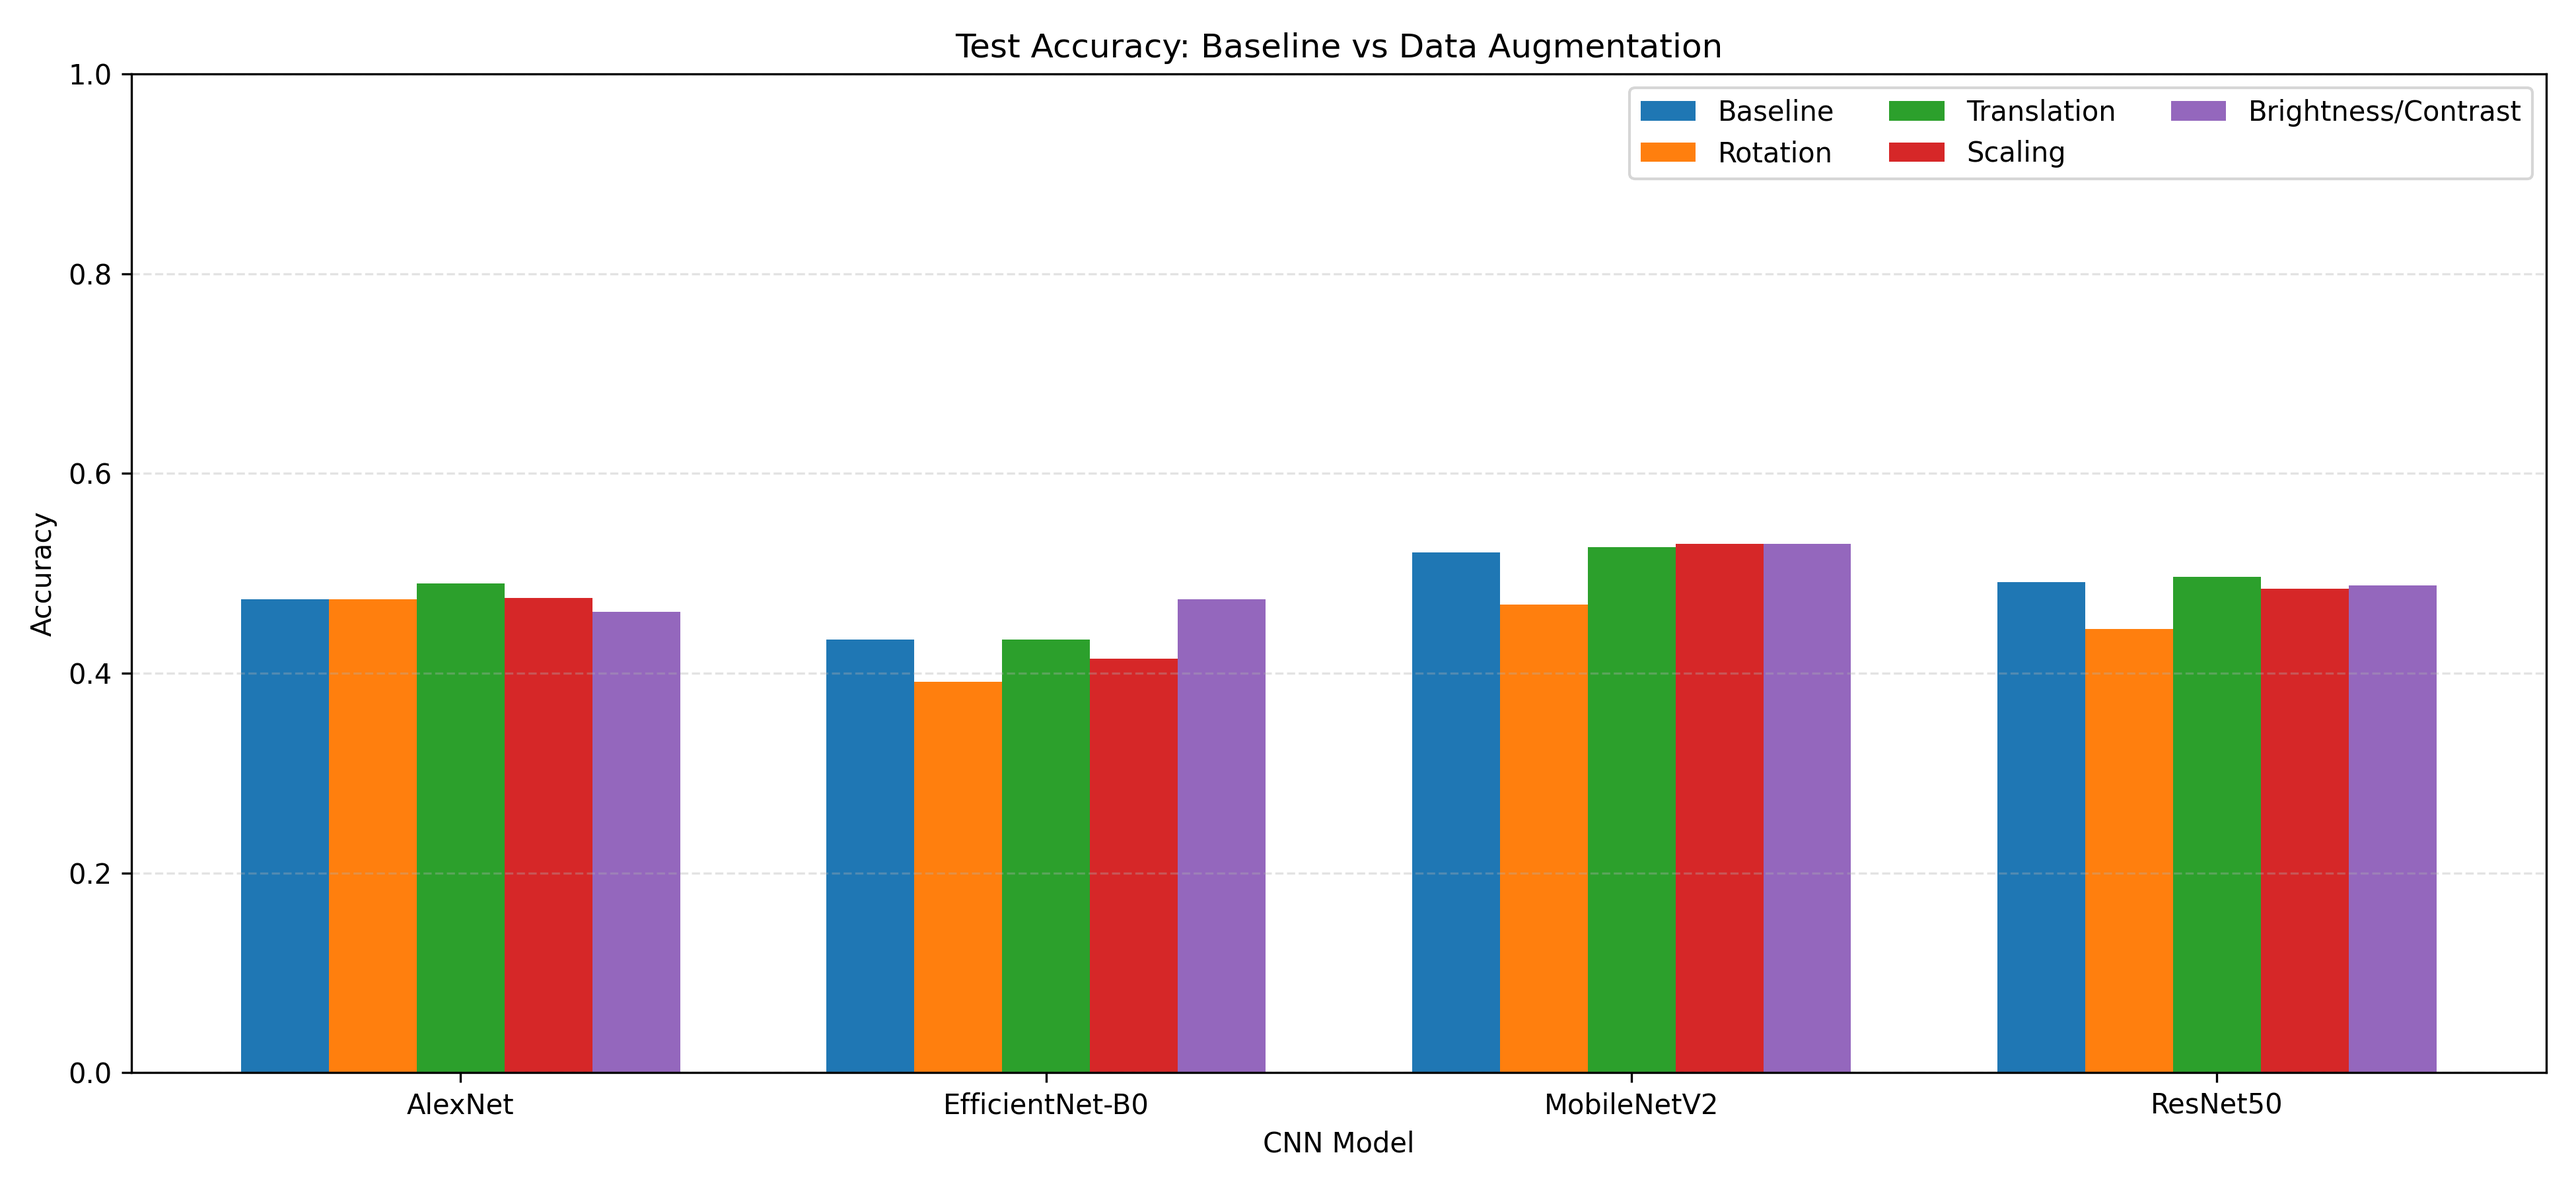
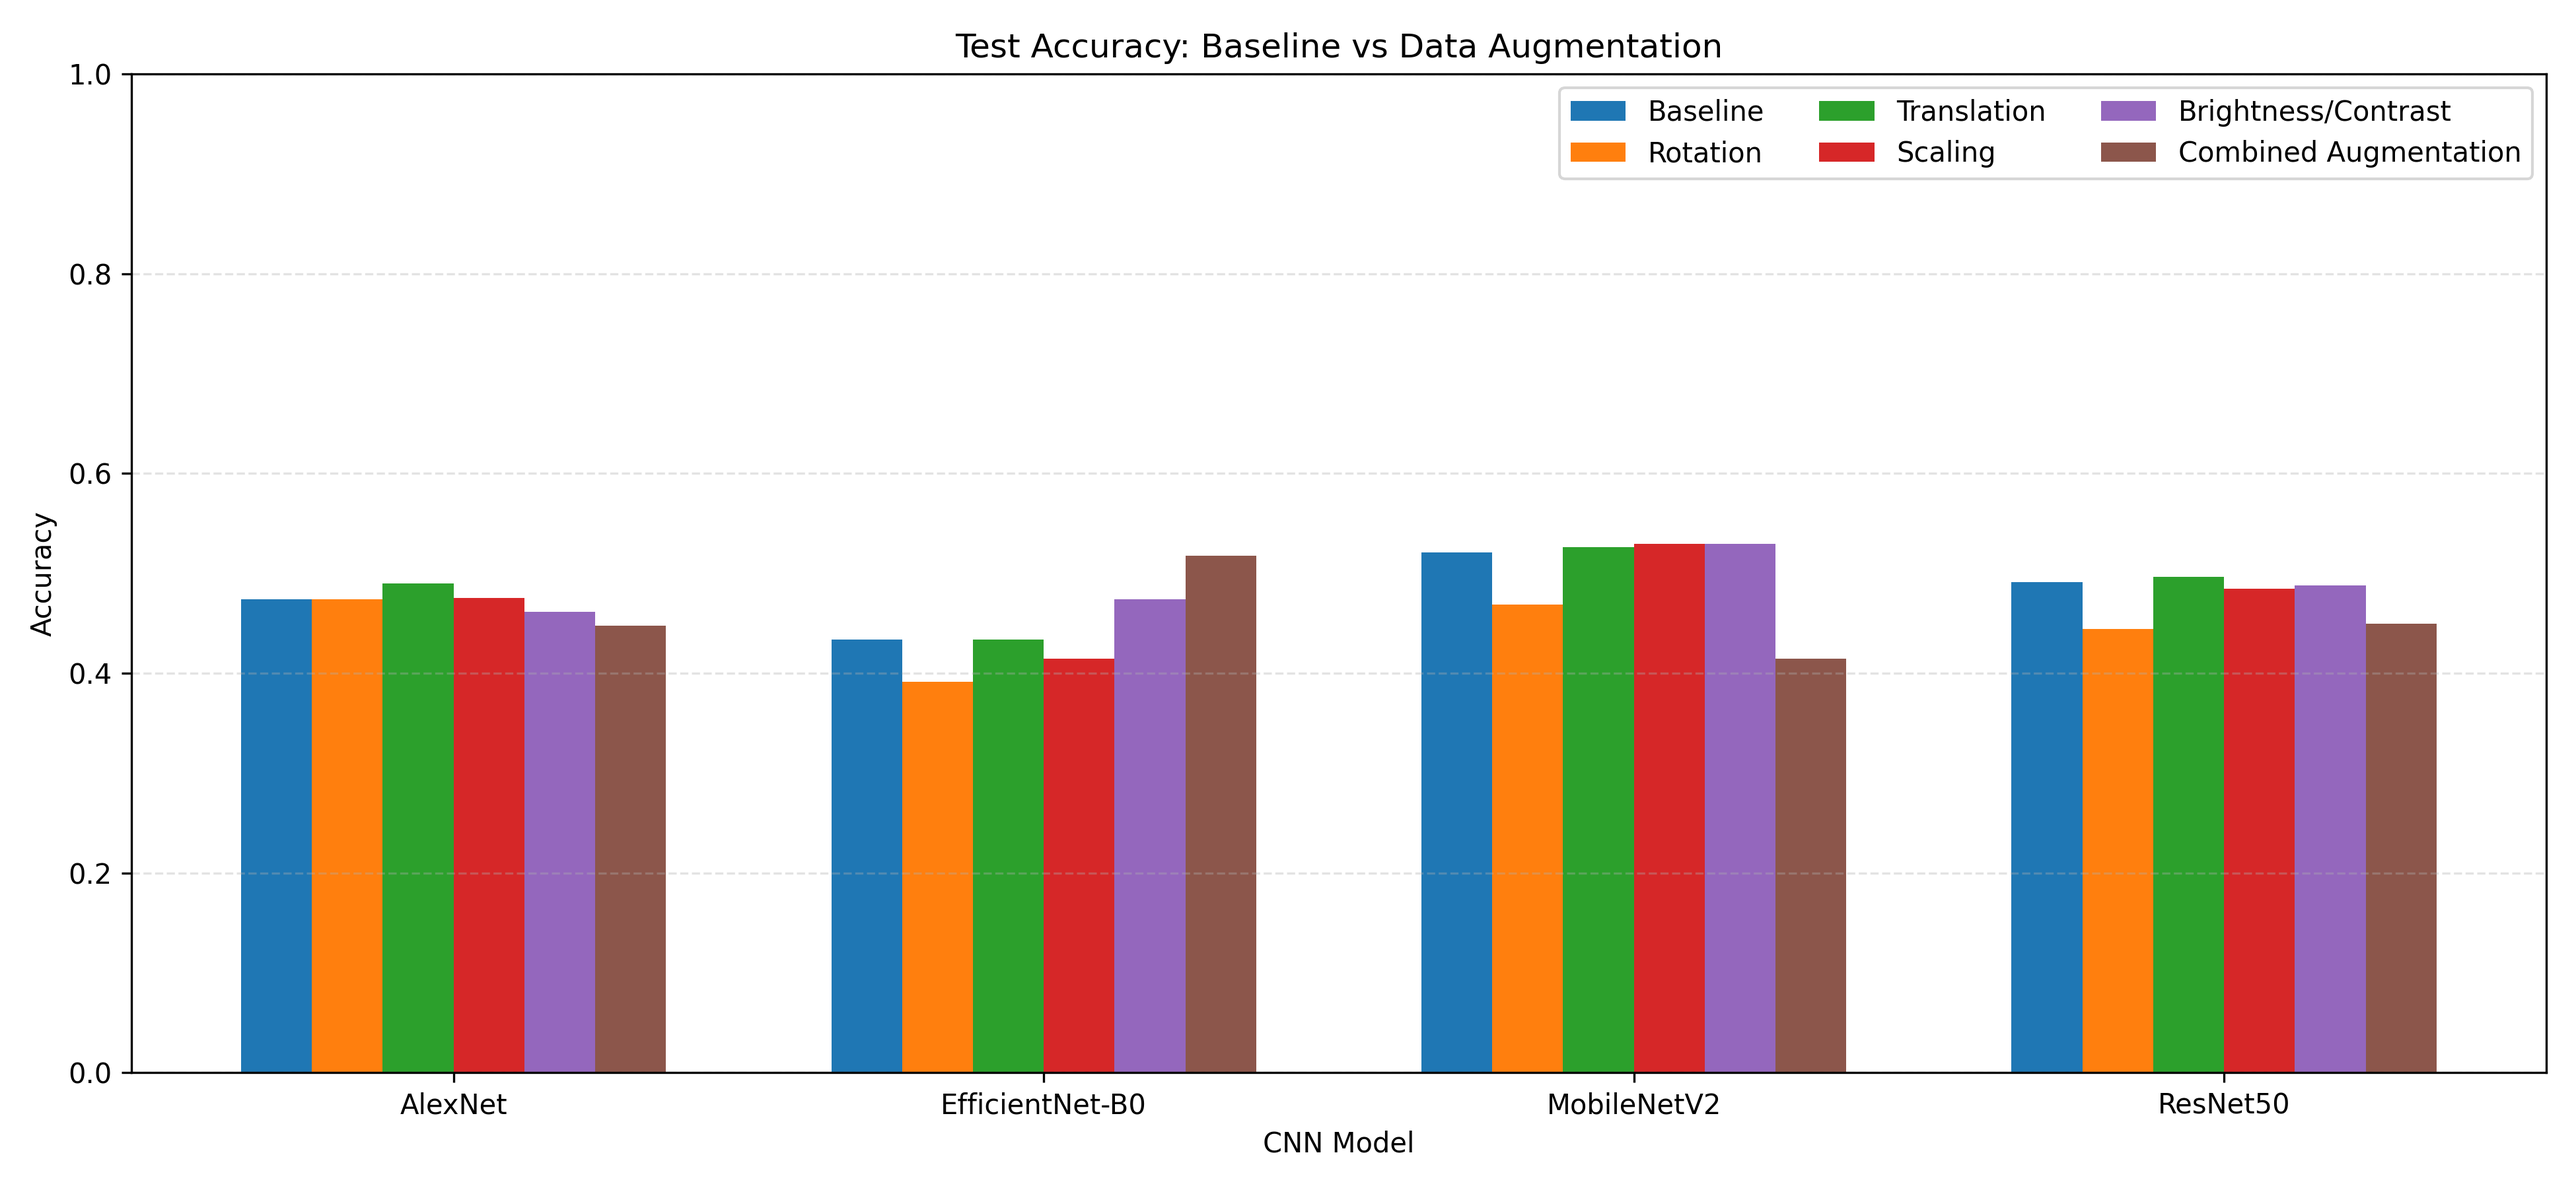
added the combined augmentation metric in the comparision results

diff --git a/03_Transfer_learning/augmentation models/compare_augmentations.py b/03_Transfer_learning/augmentation models/compare_augmentations.py
@@ -52,6 +52,16 @@ EXPERIMENTS = {
     },
 }
 
+# Combined augmentation results are stored separately from the individual
+# augmentation experiments, with one model folder per CNN.
+COMBINED_ROOT = SCRIPT_DIR / "combined_augmentation"
+COMBINED_MODEL_FOLDERS = {
+    "AlexNet": "alexnet",
+    "EfficientNet-B0": "efficientnet_b0",
+    "MobileNetV2": "mobilenetv2",
+    "ResNet50": "resnet50",
+}
+
 METRIC_COLUMNS = [
     "accuracy", "precision_macro", "recall_macro", "f1_macro",
     "precision_weighted", "recall_weighted", "f1_weighted",
@@ -74,11 +84,15 @@ def find_csv(folder: Path, preferred_name: str):
         return path
     raise FileNotFoundError(f"Missing {preferred_name} in {folder}")
 
-def read_metrics(folder: Path, is_baseline: bool):
-    filename = (
-        "transfer_learning_metrics_summary.csv"
-        if is_baseline else "metrics_summary.csv"
-    )
+def read_metrics(folder: Path, is_baseline: bool, combined_model: str = None):
+    if combined_model:
+        model_prefix = COMBINED_MODEL_FOLDERS[combined_model]
+        filename = f"{model_prefix}_combined_metrics_summary.csv"
+    else:
+        filename = (
+            "transfer_learning_metrics_summary.csv"
+            if is_baseline else "metrics_summary.csv"
+        )
     path = find_csv(folder, filename)
     df = pd.read_csv(path)
     required = set(METRIC_COLUMNS)
@@ -103,9 +117,10 @@ def read_history(folder: Path):
 
 def save_metric_bar_chart(comparison, metric, title, filename):
     models = list(EXPERIMENTS.keys())
-    experiments = ["Baseline", "Rotation", "Translation", "Scaling", "Brightness/Contrast"]
+    experiments = ["Baseline", "Rotation", "Translation", "Scaling",
+                   "Brightness/Contrast", "Combined Augmentation"]
     x = np.arange(len(models))
-    width = 0.15
+    width = 0.12
 
     fig, ax = plt.subplots(figsize=(13, 6))
     for i, experiment in enumerate(experiments):
@@ -117,7 +132,8 @@ def save_metric_bar_chart(comparison, metric, title, filename):
             ]
             values.append(float(row.iloc[0][metric]) if not row.empty else np.nan)
 
-        ax.bar(x + (i - 2) * width, values, width, label=experiment)
+        ax.bar(x + (i - (len(experiments) - 1) / 2) * width,
+               values, width, label=experiment)
 
     ax.set_title(title)
     ax.set_xlabel("CNN Model")
@@ -182,6 +198,20 @@ def main():
 
             histories[(model, experiment)] = read_history(folder)
 
+        # Add the combined augmentation result for this CNN.
+        combined_folder = COMBINED_ROOT / COMBINED_MODEL_FOLDERS[model] / "output"
+        combined_metrics = read_metrics(combined_folder, False, combined_model=model)
+        combined_row = {
+            "Model": model,
+            "Experiment": "Combined Augmentation",
+            "Test Images": combined_metrics.get("test_images", np.nan),
+            "Test Loss": combined_metrics.get("test_loss", np.nan),
+        }
+        for column in METRIC_COLUMNS:
+            combined_row[column] = combined_metrics[column]
+        rows.append(combined_row)
+        histories[(model, "Combined Augmentation")] = read_history(combined_folder)
+
     comparison = pd.DataFrame(rows)
     comparison.to_csv(RESULTS_DIR / "overall_classification_comparison.csv", index=False)
 
@@ -196,10 +226,11 @@ def main():
         "augmentation_macro_f1_comparison.png"
     )
 
-    # 4 models x 4 augmentations = 16 loss comparison plots.
+    # 4 models x 5 augmentation experiments = 20 loss comparison plots.
     for model, experiments in EXPERIMENTS.items():
         baseline_history = histories[(model, "Baseline")]
-        for augmentation in ["Rotation", "Translation", "Scaling", "Brightness/Contrast"]:
+        for augmentation in ["Rotation", "Translation", "Scaling",
+                            "Brightness/Contrast", "Combined Augmentation"]:
             save_loss_comparison(
                 model, augmentation, baseline_history,
                 histories[(model, augmentation)]
@@ -210,7 +241,7 @@ def main():
     print(f"Accuracy plot: {RESULTS_DIR / 'augmentation_accuracy_comparison.png'}")
     print(f"Macro F1 plot: {RESULTS_DIR / 'augmentation_macro_f1_comparison.png'}")
     print(f"Loss plots: {RESULTS_DIR / 'loss_comparisons'}")
-    print("\nTotal expected outputs: 1 combined CSV + 2 comparison plots + 16 loss plots.")
+    print("\nTotal expected outputs: 1 combined CSV + 2 comparison plots + 20 loss plots.")
 
 if __name__ == "__main__":
     main()
